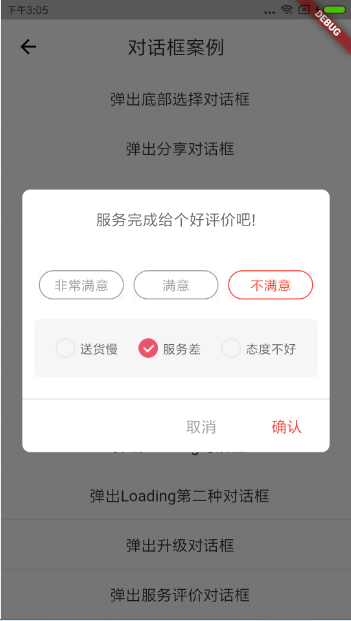
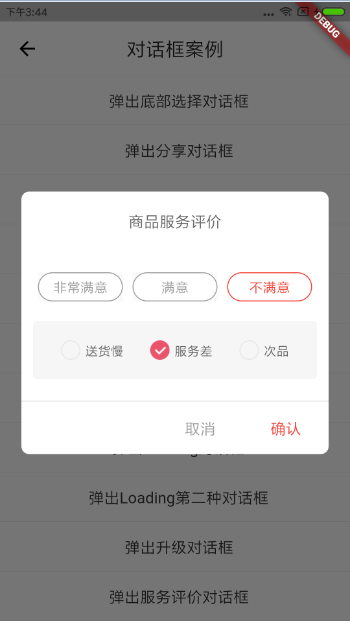
对话框优化

diff --git a/ydcflutter_app/lib/common/DialogPage.dart b/ydcflutter_app/lib/common/DialogPage.dart
@@ -700,7 +700,7 @@ class _DialogPageState extends State<DialogPage> {
           return StatefulBuilder(builder: (context, state) {
             //创建dialog
             return new YDCCustomDialog(
-              title: "服务完成给个好评价吧!",
+              title: "商品服务评价",
               negativeText: "取消",
               positiveText: "确认",
               isShowTitleDivi: false,
@@ -835,7 +835,7 @@ class _DialogPageState extends State<DialogPage> {
     lists.add(buildPariseSelectChildWidget(
         1, "服务差", pariseSelectIndex2 == 1 ? true : false,state));
     lists.add(buildPariseSelectChildWidget(
-        2, "态度不好", pariseSelectIndex2 == 2 ? true : false,state));
+        2, "次品", pariseSelectIndex2 == 2 ? true : false,state));
     clists.add(Row(
       mainAxisSize: MainAxisSize.max,
       mainAxisAlignment: MainAxisAlignment.spaceEvenly,
